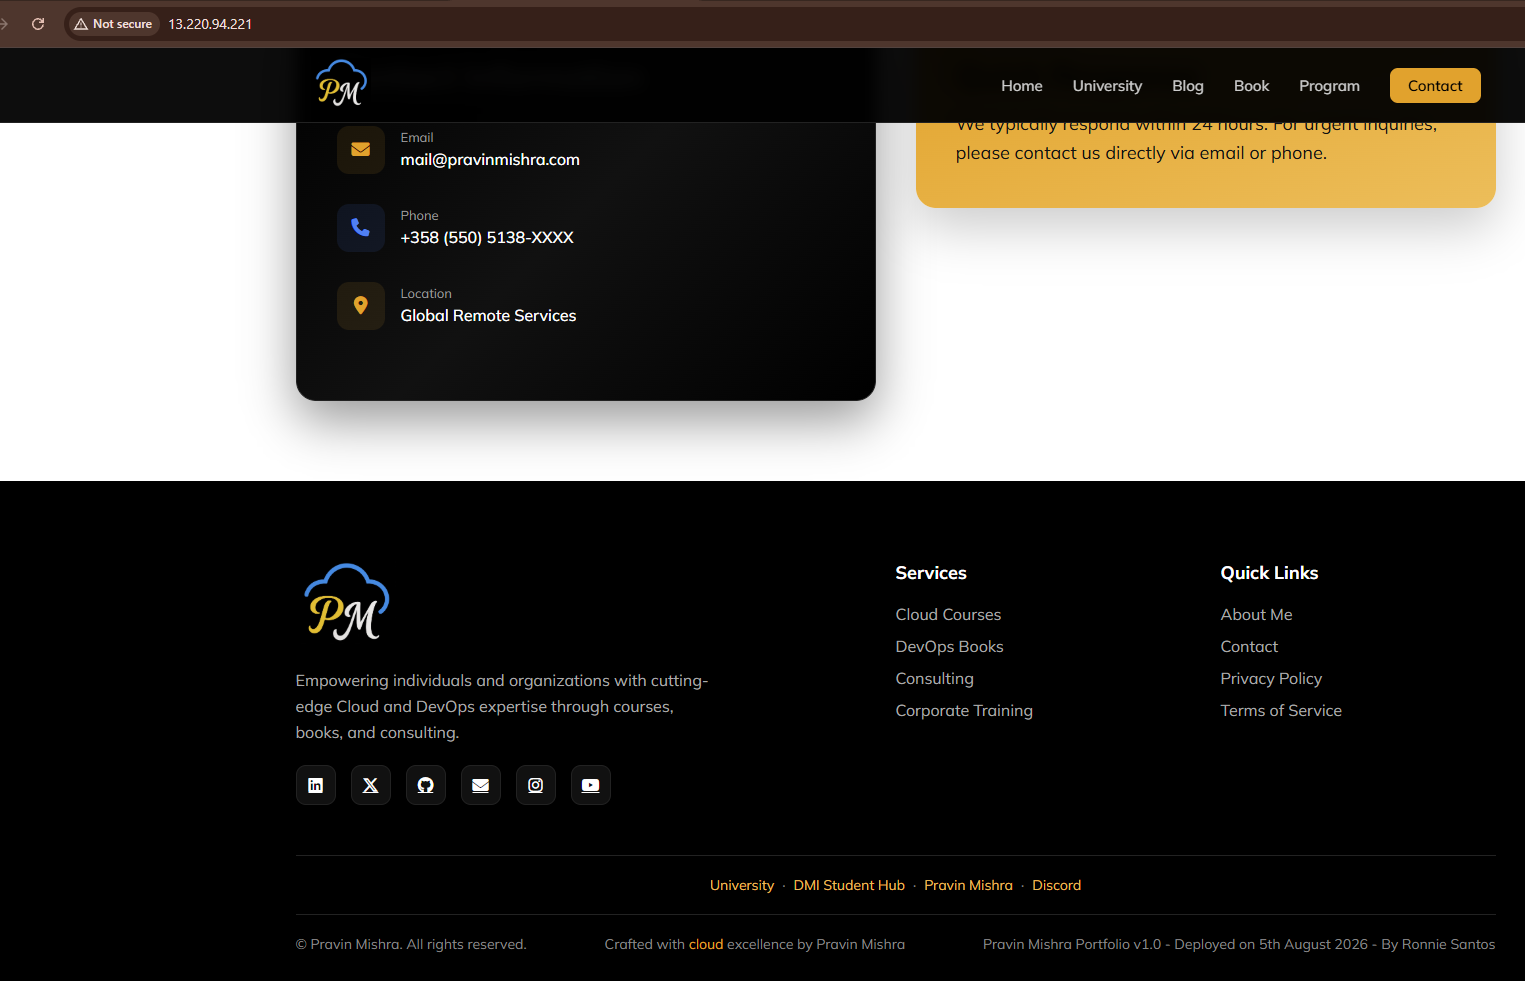
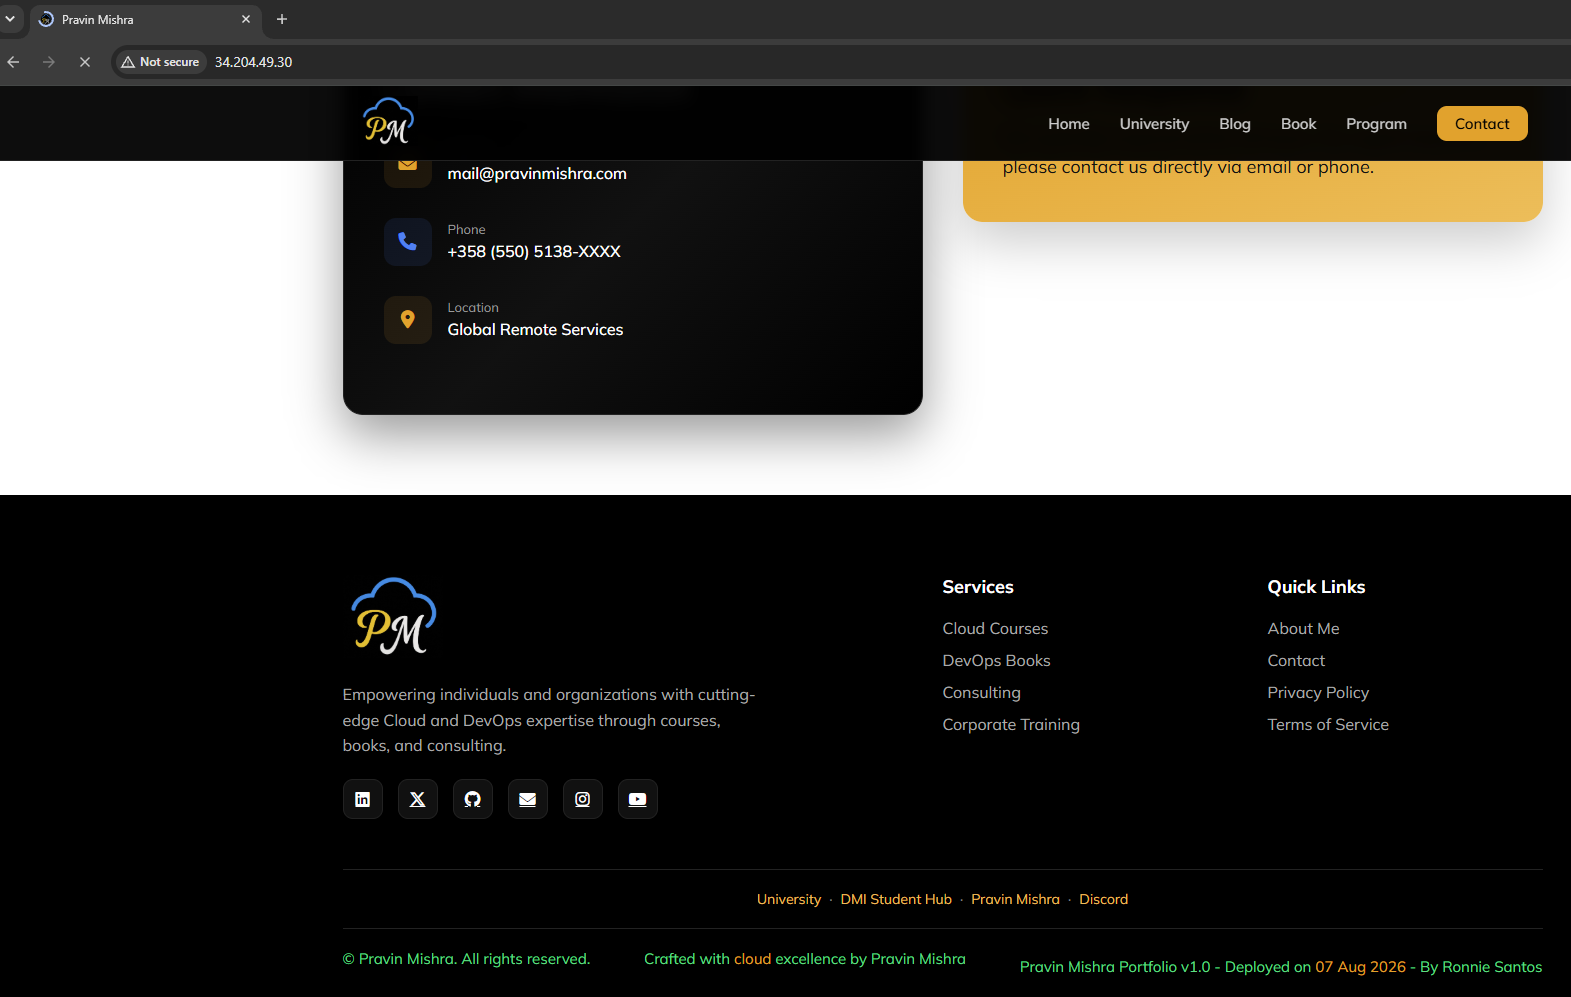
w5-03 task4

diff --git a/week-05-devops-lifecycle/assignment-03-run-a-5-day-mini-sprint-in-jira-and-ship-an-increment.md b/week-05-devops-lifecycle/assignment-03-run-a-5-day-mini-sprint-in-jira-and-ship-an-increment.md
@@ -104,19 +104,19 @@ Improve the footer's spacing, contrast, and readability, then validate it at bot
 
 #### Screenshot 11 — Desktop EC2 view showing the polished footer
 
-Add your screenshot here.
+![ss11](./screenshots/W5-SS-A3/W5-A3-SS-11.png).
 
 ---
 
 #### Screenshot 12 — Mobile responsive view showing the footer remains readable
 
-Add your screenshot here.
+![ss12](./screenshots/W5-SS-A3/W5-A3-SS-12.png).
 
 ---
 
 #### Screenshot 13 — Jira Story comment showing the Day 3 Daily Scrum update
 
-Add your screenshot here.
+![ss13](./screenshots/W5-SS-A3/W5-A3-SS-13.png).
 
 ---
 
